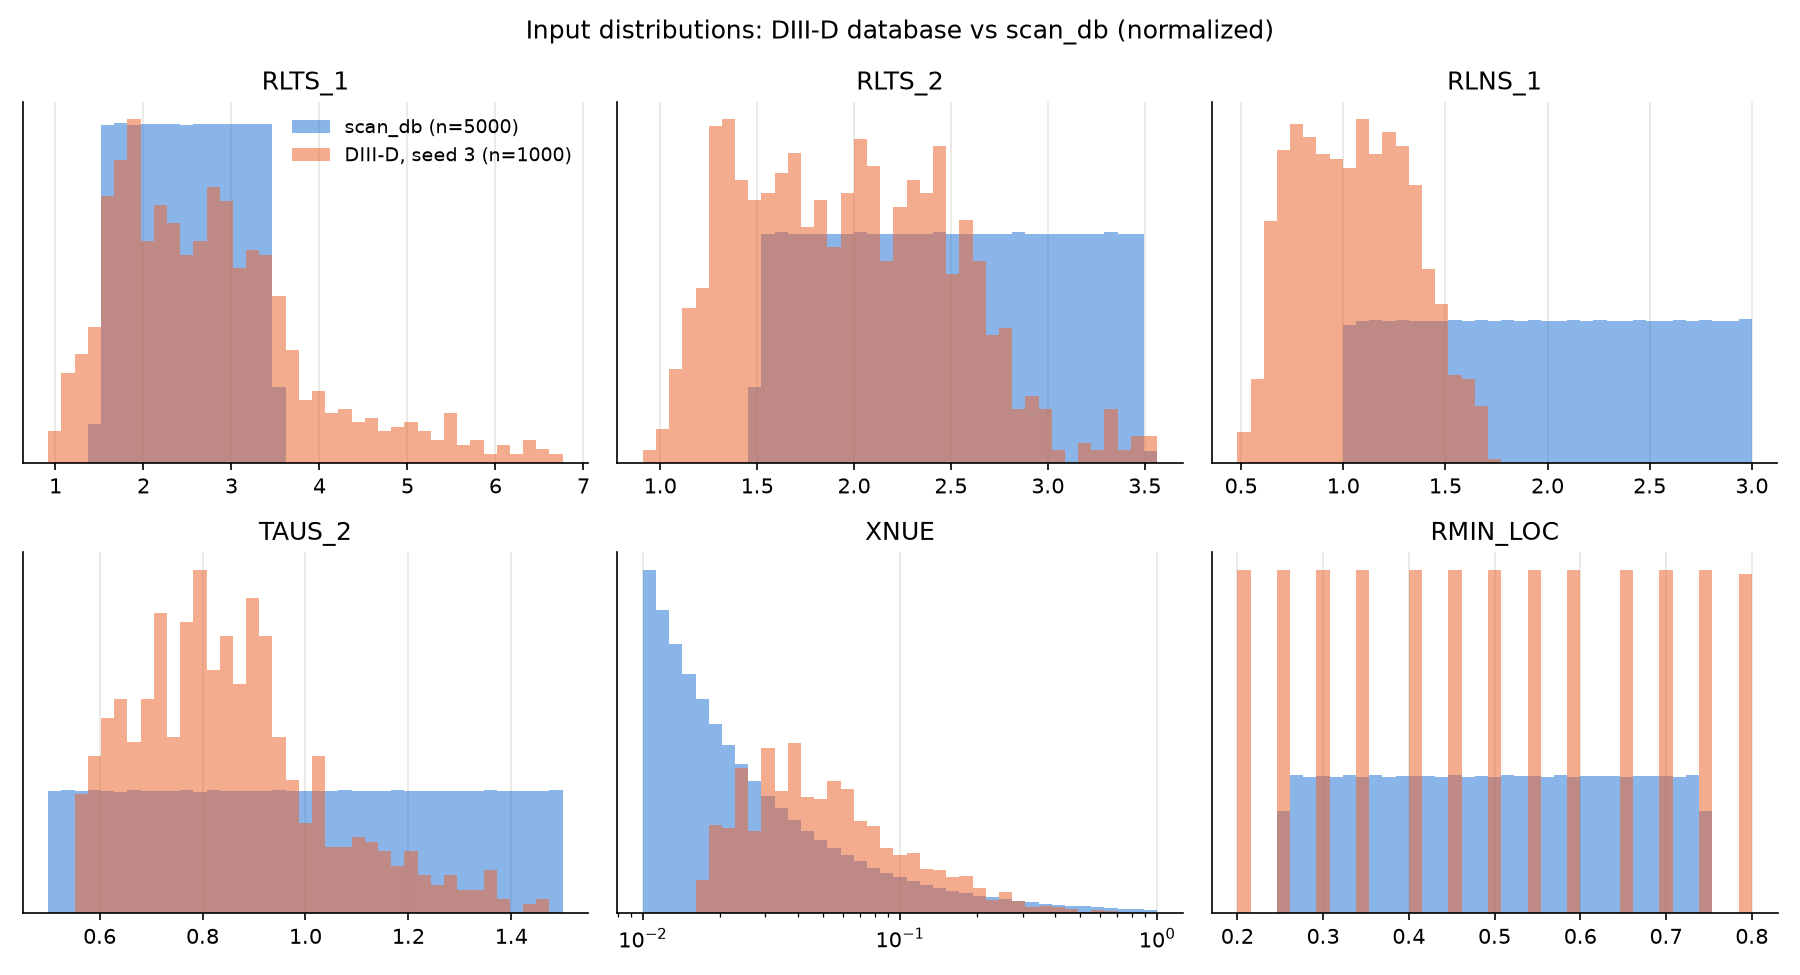
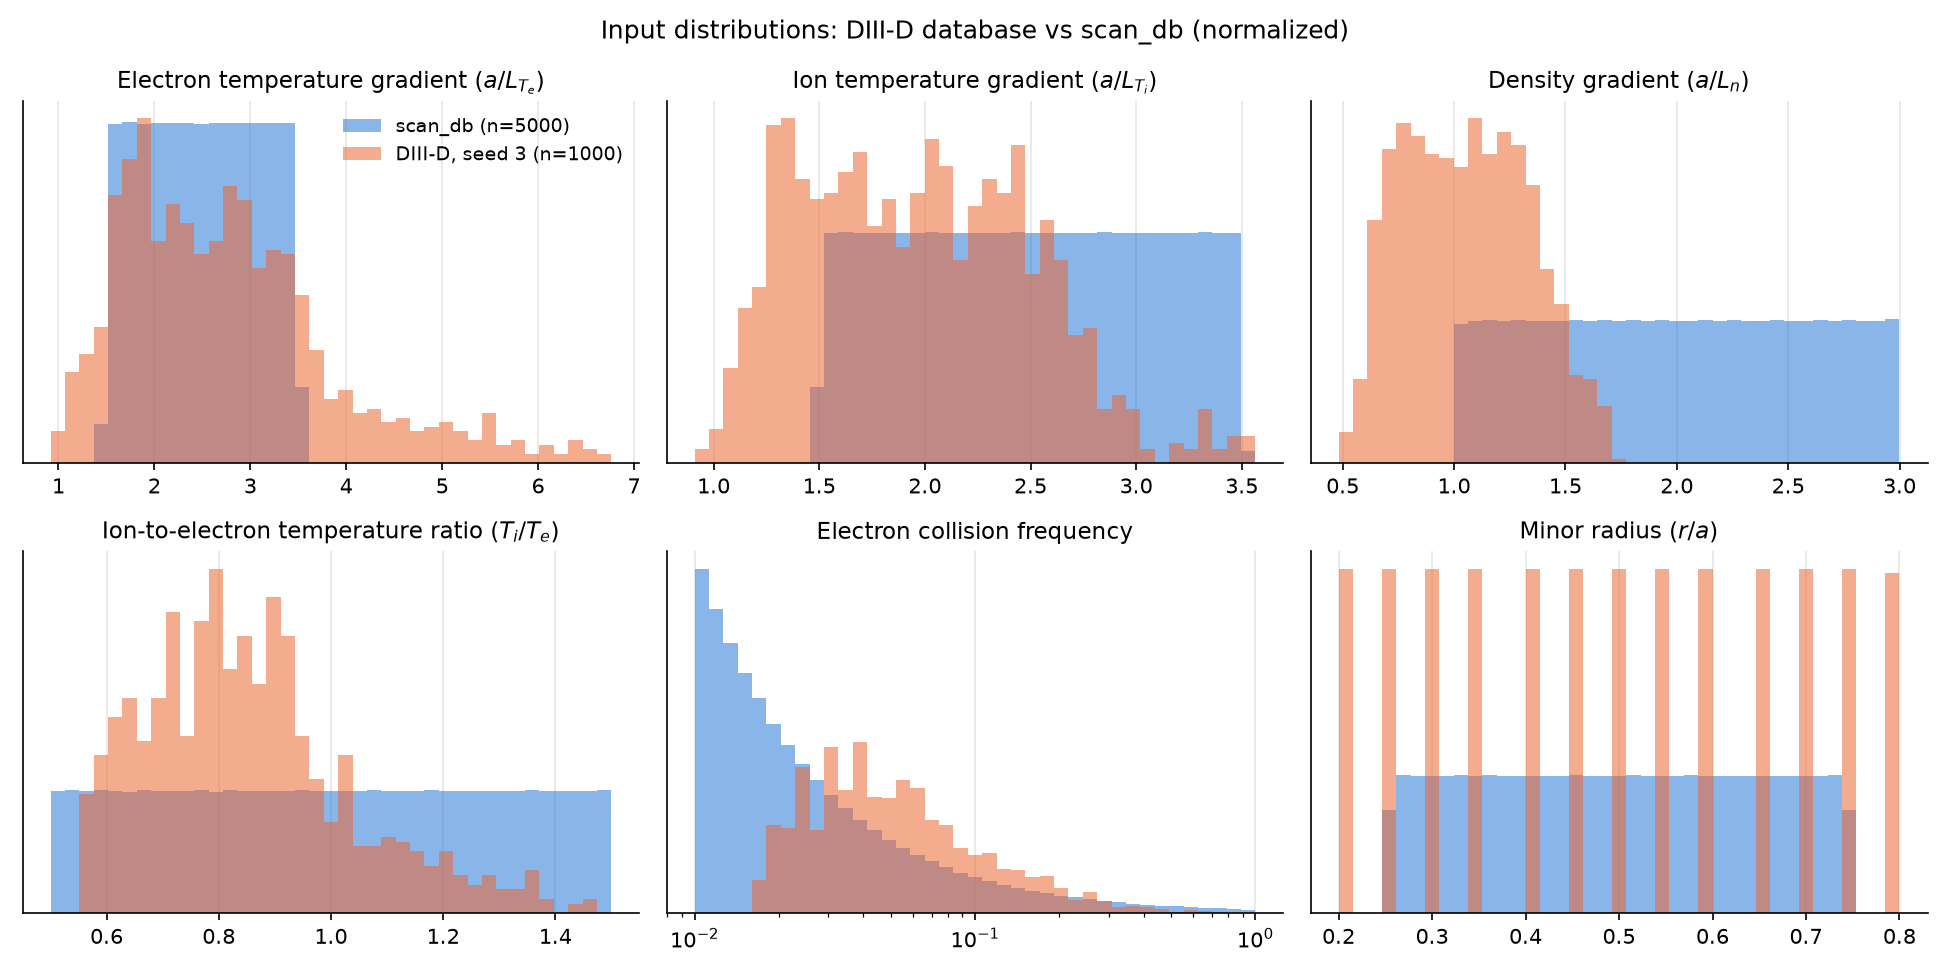
Use readable variable names in Task 4 input histograms
Claude-Session: https://claude.ai/code/session_01AGK1uVb3Z2uorXNwY6wBHu

diff --git a/notebooks/jscalderon/Task 4/plot_d3d.py b/notebooks/jscalderon/Task 4/plot_d3d.py
@@ -35,14 +35,22 @@ fig.savefig(OUT / "d3d_profile_fluxes.png", dpi=150)
 # Step 2: where the DIII-D database sits inside the scan_db box
 me = pd.read_csv(HERE / "d3d_database.csv").rename(columns={"r_over_a": "RMIN_LOC"})
 scan = pd.read_csv(SCAN)
-feats = ["RLTS_1", "RLTS_2", "RLNS_1", "TAUS_2", "XNUE", "RMIN_LOC"]
-fig, axes = plt.subplots(2, 3, figsize=(12, 6.5))
-for ax, f in zip(axes.flat, feats):
+feats = {  # names from the Task 1 and Task 4 handouts
+    "RLTS_1": "Electron temperature gradient ($a/L_{T_e}$)",
+    "RLTS_2": "Ion temperature gradient ($a/L_{T_i}$)",
+    "RLNS_1": "Density gradient ($a/L_n$)",
+    "TAUS_2": "Ion-to-electron temperature ratio ($T_i/T_e$)",
+    "XNUE": "Electron collision frequency",
+    "RMIN_LOC": "Minor radius ($r/a$)",
+}
+fig, axes = plt.subplots(2, 3, figsize=(13, 6.5))
+for ax, (f, name) in zip(axes.flat, feats.items()):
     lo, hi = min(me[f].min(), scan[f].min()), max(me[f].max(), scan[f].max())
     bins = np.geomspace(lo, hi, 40) if f == "XNUE" else np.linspace(lo, hi, 40)
     ax.hist(scan[f], bins=bins, density=True, color=BLUE, alpha=0.55, label=f"scan_db (n={len(scan)})")
     ax.hist(me[f], bins=bins, density=True, color=ORANGE, alpha=0.55, label=f"DIII-D, seed 3 (n={len(me)})")
-    ax.set(title=f, yticks=[])
+    ax.set(yticks=[])
+    ax.set_title(name, fontsize=11)
     if f == "XNUE":
         ax.set_xscale("log")
 axes.flat[0].legend(frameon=False, fontsize=9)
